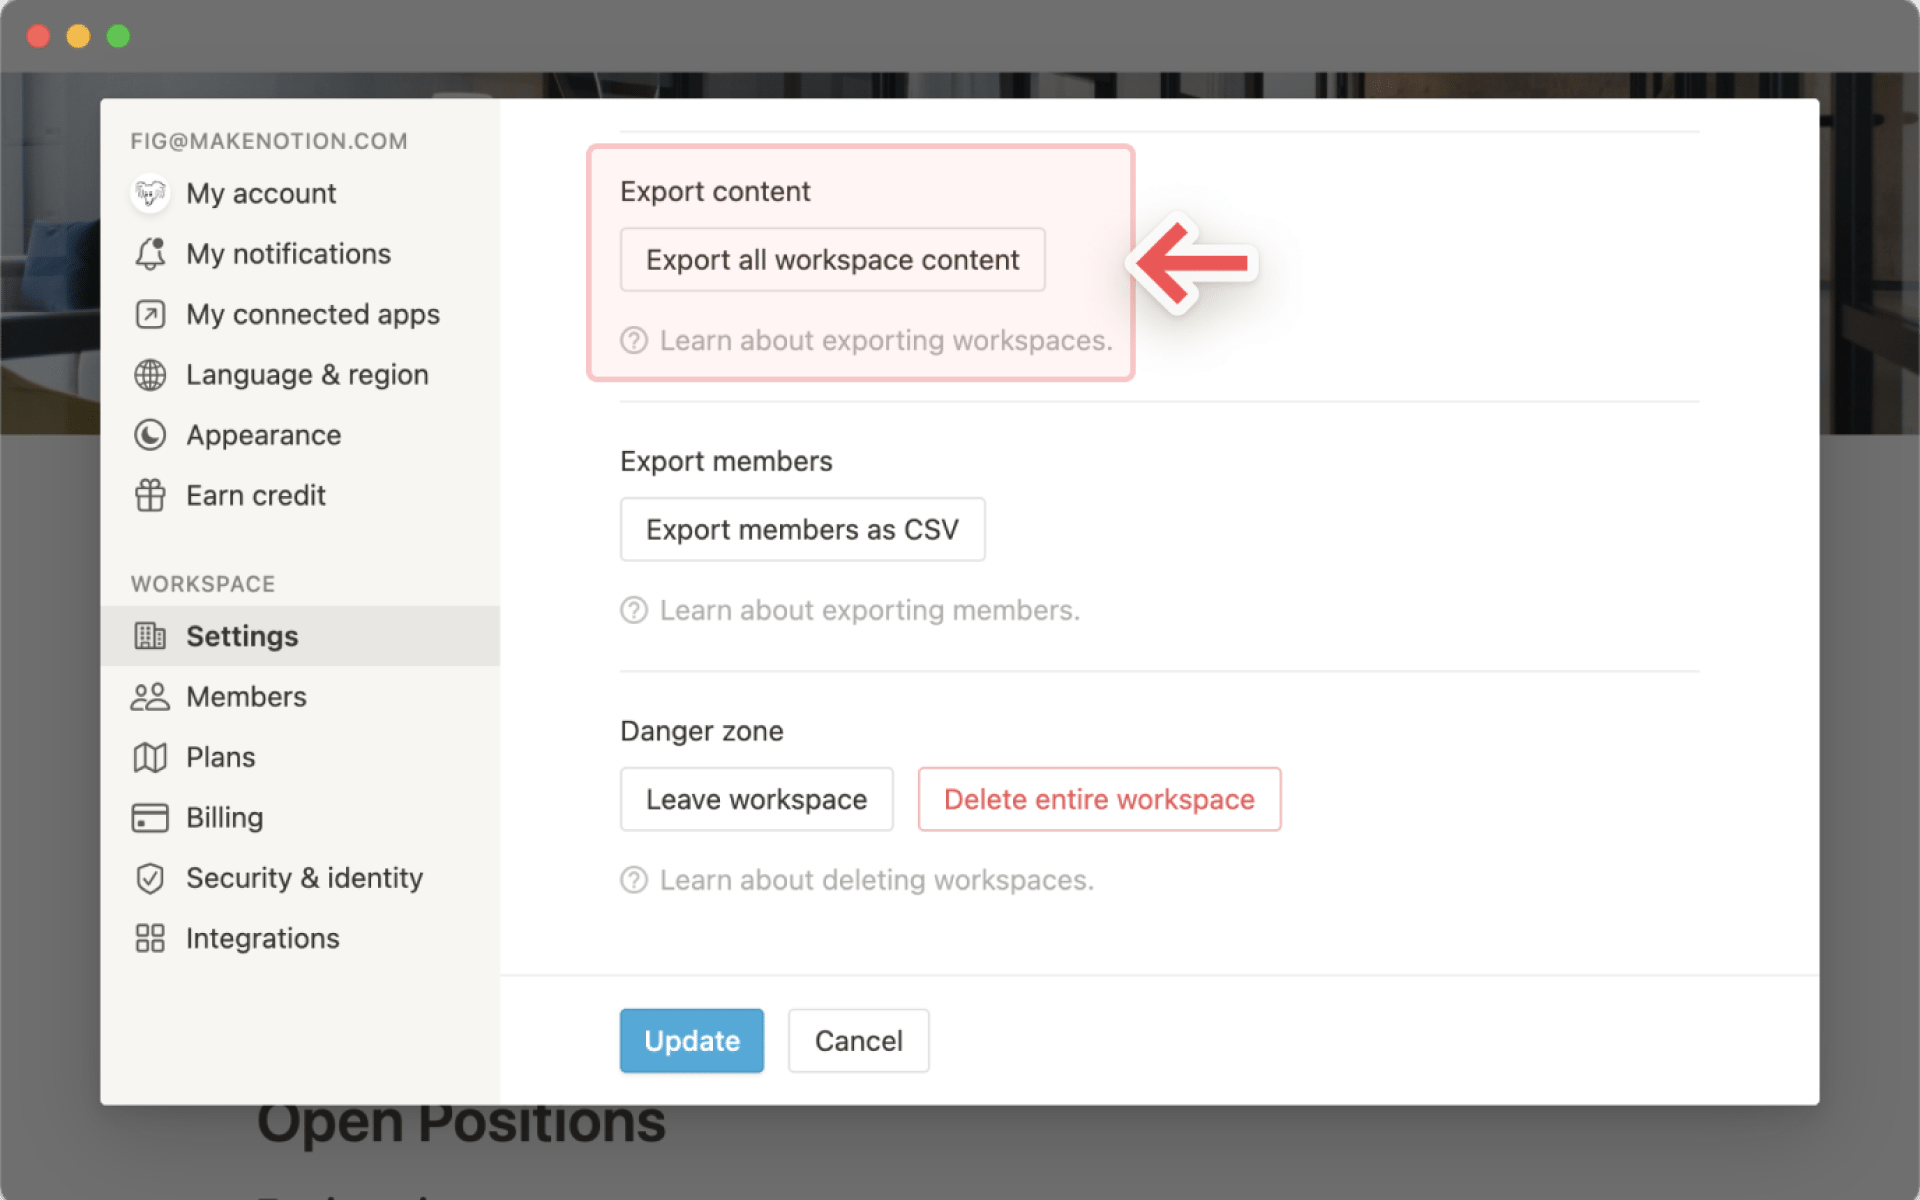
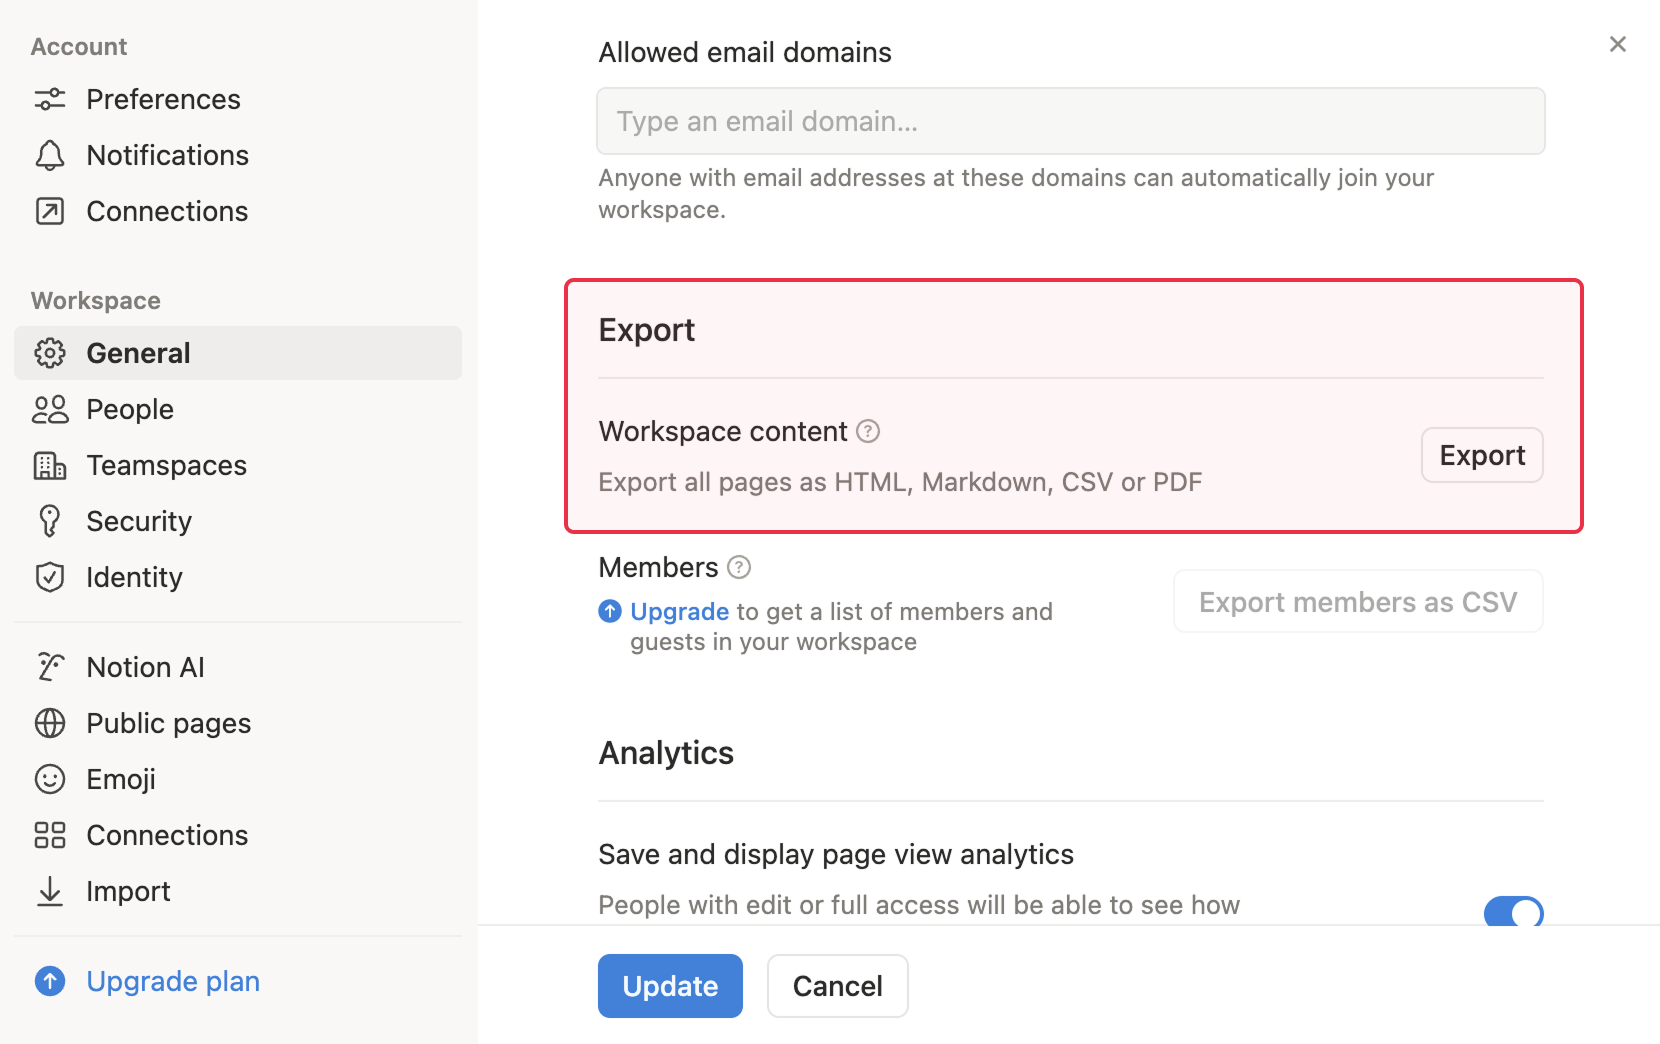
merge EN master changes  manually into DE

diff --git a/de/Integrierte Erweiterungen/Bases/Introduction to Bases.md b/de/Integrierte Erweiterungen/Bases/Introduction to Bases.md
@@ -4,12 +4,22 @@ aliases:
   - Bases
 cssclasses:
   - list-cards
-description: Obsidian Bases let you turn any set of notes into a powerful database. With bases you can organize everything from projects to travel plans, reading lists, and more.
+  - list-cards-mobile-full
+description: Create database-like views of your notes, formatted as tables or cards. Edit, sort, and filter files using their properties.
 ---
 #TODO
+%%ALT%%
 Bases is a [[Übersicht|core plugin]] that lets you turn any set of notes into a powerful database. With bases you can organize everything from projects to travel plans, reading lists, and more. 
 
 Using a base you can view, edit, sort, and filter files and their [[Eigenschaften|properties]]. Each base can have several [[Views|views]], and different layouts such as tables and cards. Below is an example of table view where each row is a file, and each column is a property of that file.
+%%/ALT%%
+
+%%NEU%%
+Bases is a [[Core plugins|core plugin]] that lets you create database-like views of your notes. Using a base you can view, edit, sort, and filter files and their [[Properties|properties]]. Bases can help you organize everything from projects to travel plans, reading lists, and more.
+
+Each base can have several [[Views|views]] with different layouts such as tables and cards. Below is an example of table view where each row is a file, and each column is a property of that file.
+
+%%/NEU%%
 
 ![Example of a base showing a table view with a list of books](bases-noshadow.png#interface)
 

diff --git a/de/Obsidian Sync/Upgrade Sync encryption.md b/de/Obsidian Sync/Upgrade Sync encryption.md
@@ -17,10 +17,10 @@ Obsidian occasionally upgrades Sync encryption to maintain the highest [[Obsidia
 
 All new vaults automatically use the latest encryption. Existing vaults can be upgraded using the migration assistant. Note that all devices must be using an Obsidian app version that supports the Sync encryption version you are migrating to.
 
-| Sync version                                                            | Minimum app version |
-| ----------------------------------------------------------------------- | ------------------- |
-| [2025-08-22](https://obsidian.md/changelog/2025-08-22-sync/)            | 1.8.3               |
-| [2020-12-07](https://obsidian.md/changelog/2020-12-07-desktop-v0.9.21/) | 0.9.21              |
+| Release date                                                            | Sync version | Minimum app version |
+| ----------------------------------------------------------------------- | ------------ | ------------------- |
+| [2025-08-22](https://obsidian.md/changelog/2025-08-22-sync/)            | 3            | 1.8.3               |
+| [2020-12-07](https://obsidian.md/changelog/2020-12-07-desktop-v0.9.21/) | 0            | 0.9.21              |
 
 ## Upgrade encryption with the migration assistant
 

diff --git a/de/Notizen importieren/Import from Notion.md b/de/Notizen importieren/Import from Notion.md
@@ -8,15 +8,17 @@ Obsidian allows you to easily migrate your notes from Notion using the [[Importe
 
 To prepare your data for import, you will need to export your entire workspace using Notion's HTML export format. We recommend that you do not use Notion's Markdown export as it omits important data. You must have admin access to the Notion workspace to export all workspace content.
 
-1. Go to **Settings & members** at the top of your left-hand sidebar.
-2. Select **Settings** in the sidebar of that window.
-3. Scroll down and select the **Export all workspace content** button.
+1. Go to **Settings** at the top of the Notion sidebar.
+2. Under **Workspace** select **General**.
+3. Find and select **Export all workspace content**.
 4. Under **Export format** select **HTML**.
-5. Enable **Include subpages**
-6. Enable **Create folders for subpages**
+5. Choose **Include everything**.
+6. Enable **Create folders for subpages**.
 7. You will receive a `.zip` file via email or directly in the browser.
 
 ![[notion-export.png#interface]]
+
+![[notion-export-2.png#interface]]
 
 ## Import your Notion data into Obsidian
 

diff --git a/de/Integrierte Erweiterungen/Übersicht.md b/de/Integrierte Erweiterungen/Übersicht.md
@@ -7,7 +7,7 @@ cssclasses:
   - list-cards-mobile-full
 permalink: plugins
 ---
-
+#UPDATE
 Erfahre, welche Zusatzfunktionen mit Obsidian vorinstalliert sind. Diese integrierten Erweiterungen werden offiziell vom Obsidian-Team entwickelt und unterstützt.
 
 Einige dieser Funktionen sind standardmäßig deaktiviert. Du kannst sie in den **Einstellungen** ( ![[lucide-settings.svg#icon]] ) unter **Obsidian-Erweiterungen** einzeln aktivieren.
@@ -24,7 +24,12 @@ Einige dieser Funktionen sind standardmäßig deaktiviert. Du kannst sie in den 
 - [[Ausgehende Links|Ausgehende Links]]
 	- Zeigt von der aktiven Notiz ausgehende Links sowie Verweise auf nicht erstellte Inhalte.
 - [[Introduction to Bases|Bases]]
+%%ALT%%
 	- Erstelle datenbankähnliche Sichten, um deine Dateien anhand ihrer Eigenschaften zu sortieren und filtern.
+%%/ALT%%
+%%NEU%%
+	- Create custom views that let you edit, sort, and filter files using their properties.
+%%/NEU%%
 - [[Befehlspalette|Befehlspalette]]
 	- Schnelle Eingabe von Befehlen über die Tastatur.
 - [[Canvas]]

diff --git a/de/Teams/Deploy Obsidian across your team.md b/de/Teams/Deploy Obsidian across your team.md
@@ -50,4 +50,4 @@ For questions about account management and security, please refer to [[Security 
 Currently, we do not support deploying licenses via a deployment script, such as in a `.json` file. If you're interested in this feature for your team, please submit a [feature request](https://forum.obsidian.md/c/feature-requests/8). 
 
 **Can Obsidian lock certain features or configurations via a setting or an application flag?**
-Not yet. If you're interested in this feature for your team, please submit a [feature request](https://forum.obsidian.md/c/feature-requests/8). 
+Currently you can do this by blocking edit access to the `.obsidian` folder, or specific files and folders within it, described above. If you're interested in more access controls for your team, please submit a [feature request](https://forum.obsidian.md/c/feature-requests/8). 

diff --git a/de/Integrierte Erweiterungen/Bases/Views.md b/de/Integrierte Erweiterungen/Bases/Views.md
@@ -23,7 +23,9 @@ Each layout type provides its own configuration options and actions. To see a vi
 
 ### Table
 
-Table does not have any specific view configuration.
+#### Row height
+
+If you want to display more information per row, you can change the row height in the view settings. Choose between short, medium, tall, and extra tall.
 
 ### Cards
 
